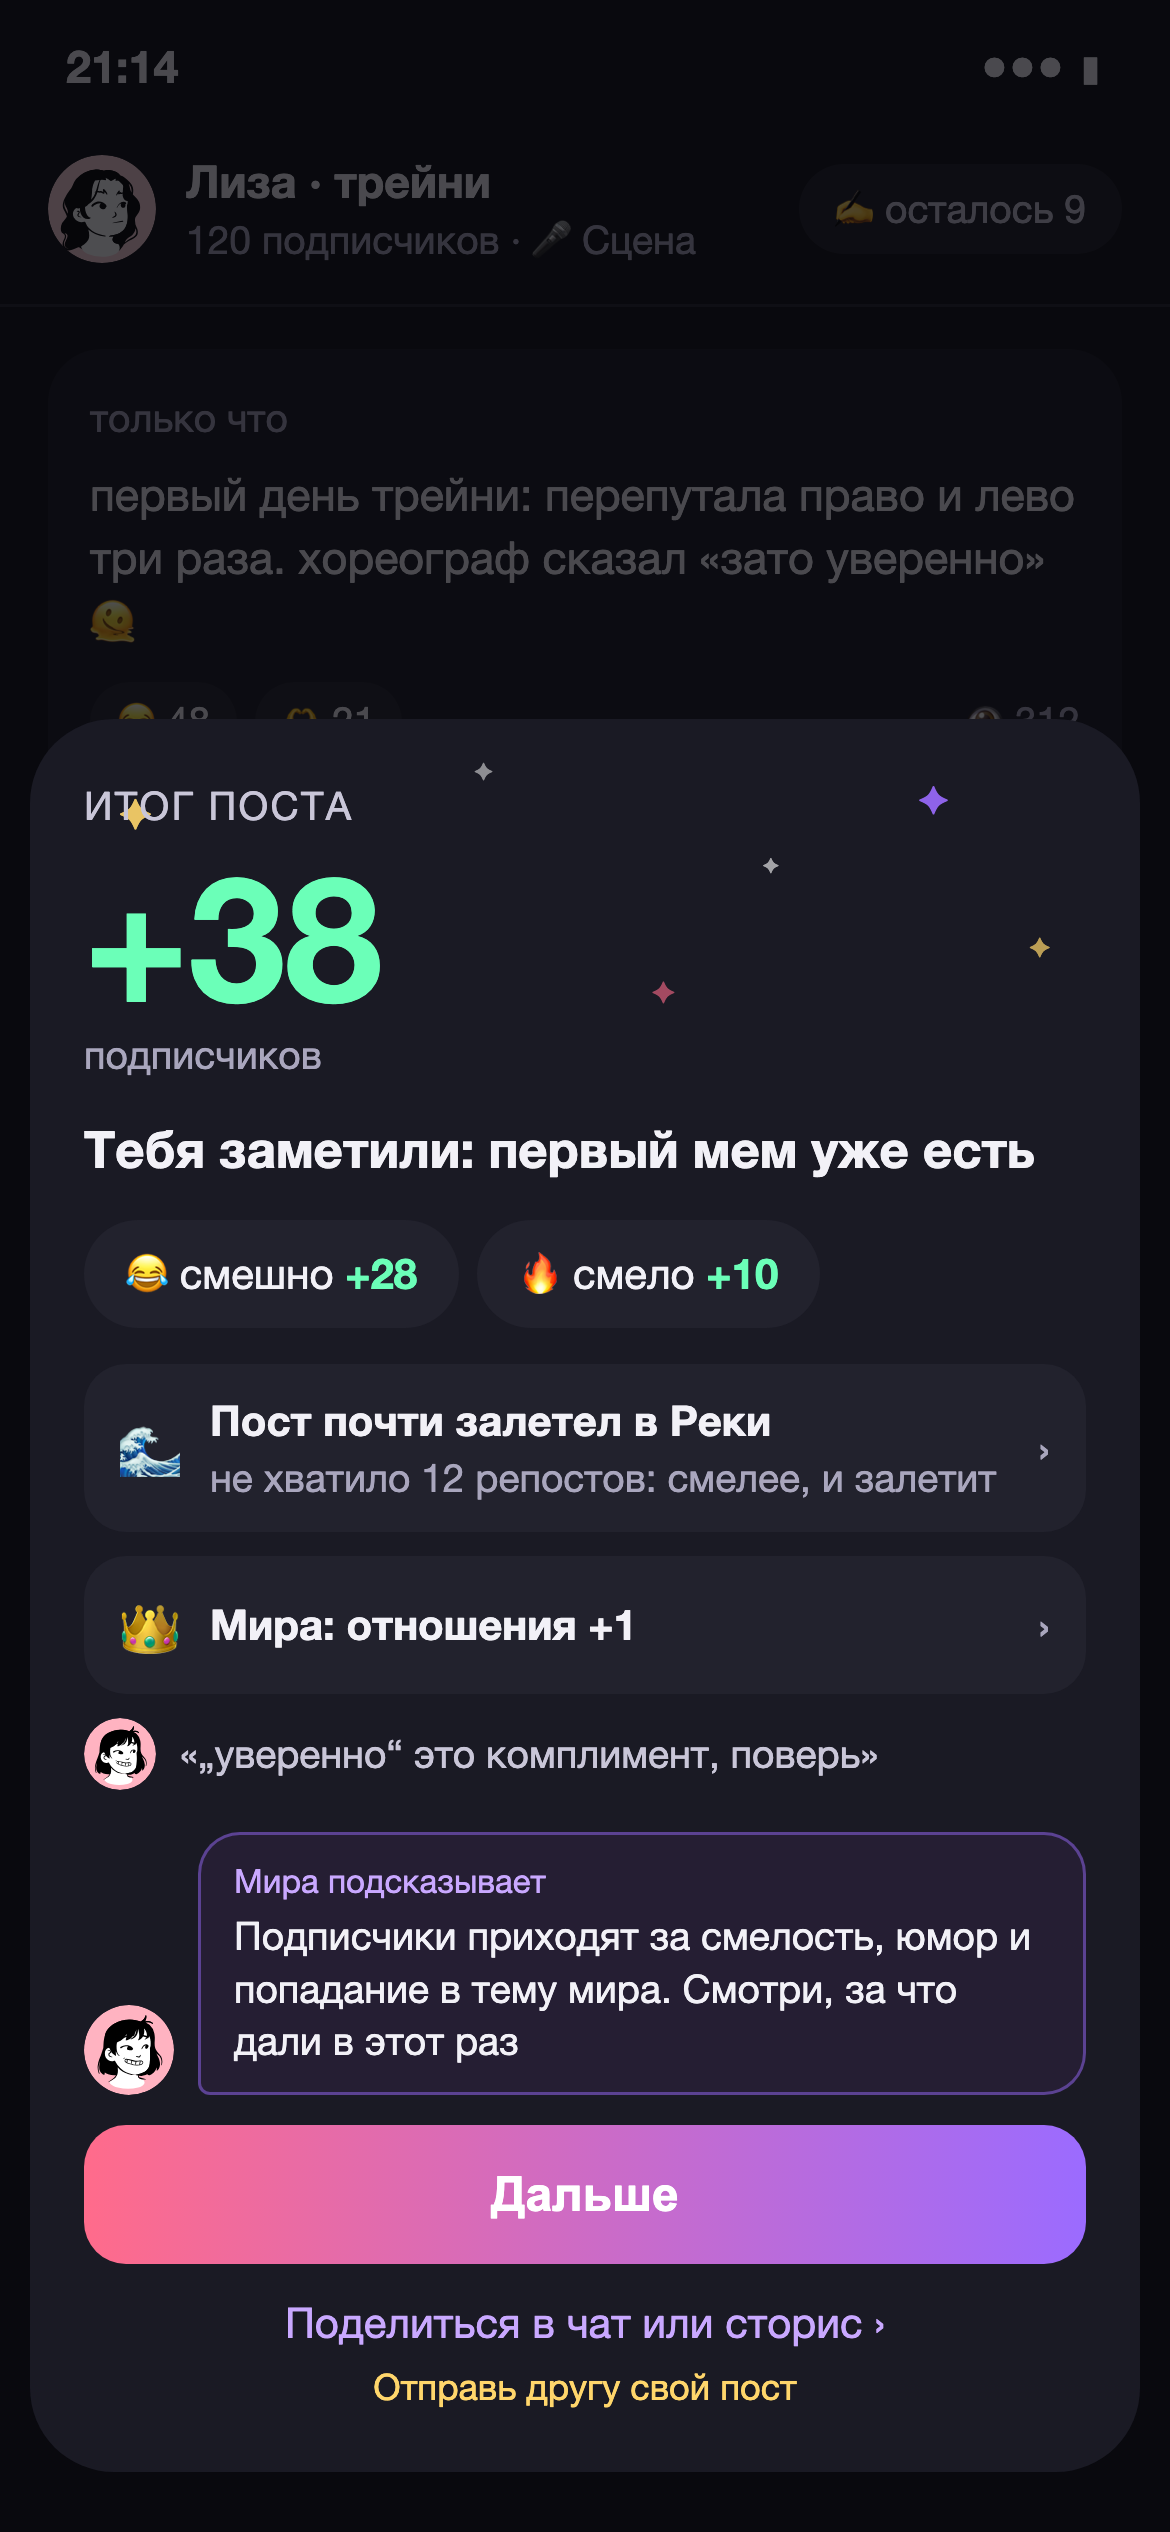
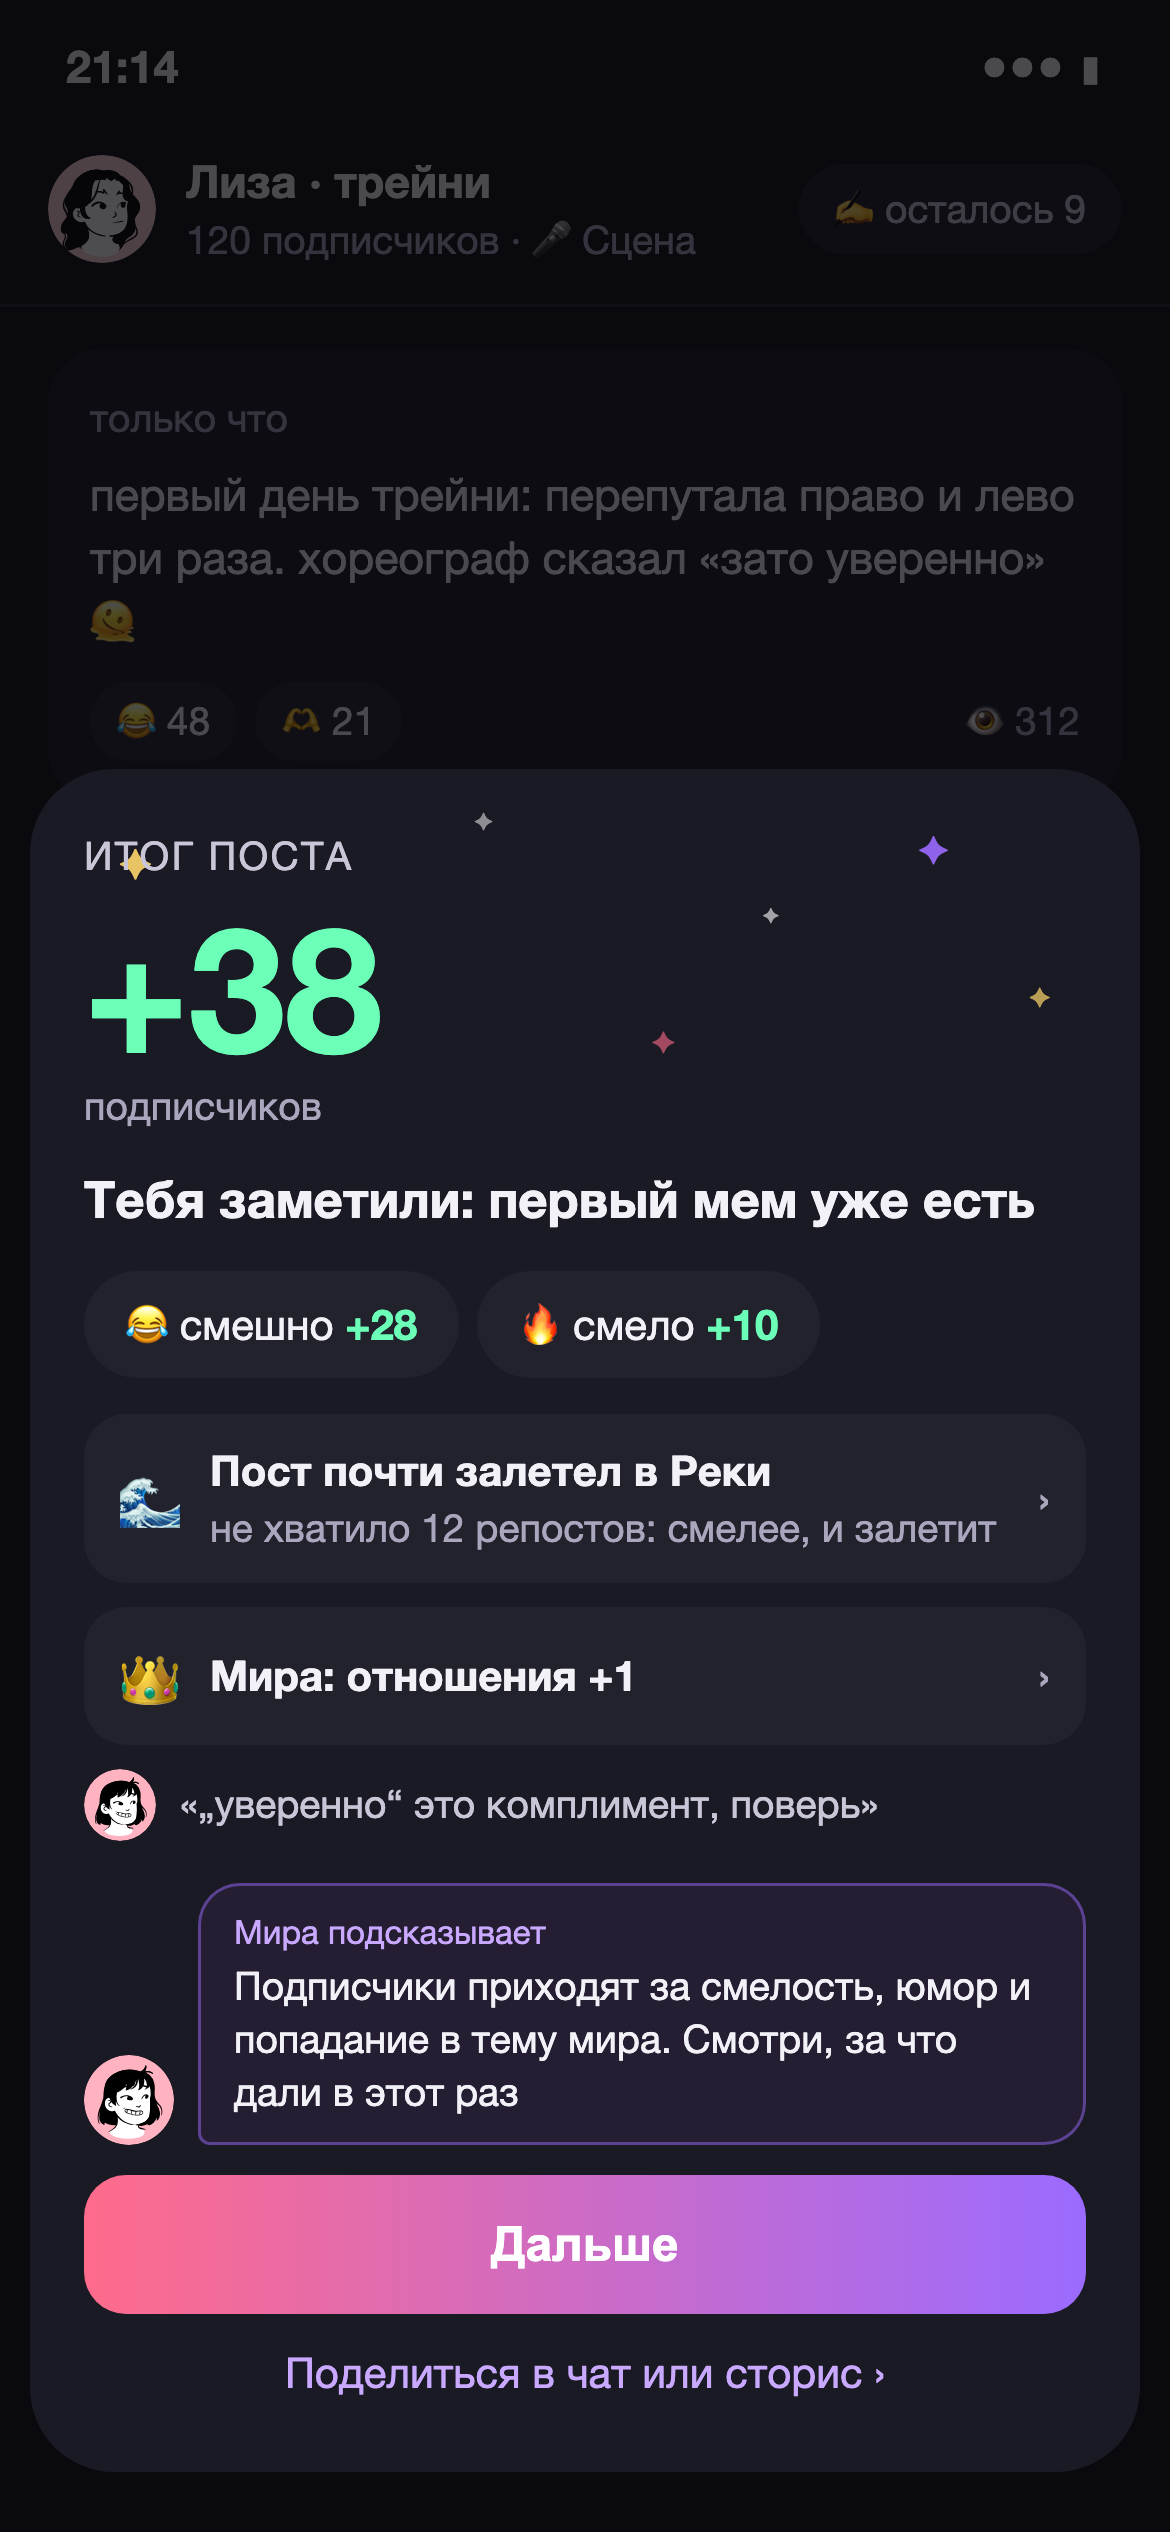
fix(frontend): hide inactive result sharing caption (#92)

Changed region(s): [[0.0615, 0.2808, 0.9538, 0.9672], [0.7385, 0.5616, 0.8308, 0.624], [0.7692, 0.312, 0.8, 0.3432]]

diff --git a/frontend/src/screens/turn.tsx b/frontend/src/screens/turn.tsx
@@ -165,7 +165,7 @@ function ResultCard({ r, post, theme }: { r: PostResult; post: Post; theme: 'nor
           </> : <>
             <Button onClick={() => nav.replace('02-6_thread', { post })}>Дальше</Button>
             {theme === 'normal' && <><button onClick={() => nav.push('02-7_share', { post })} style={{ display: 'block', margin: '10px auto 4px', background: 'none', border: 'none', color: 'var(--lilac)' }}>Поделиться в чат или сторис ›</button>
-              <div className="small" style={{ textAlign: 'center', color: 'var(--gift)' }}>Отправь другу свой пост</div></>}
+              </>}
           </>}
         </div>
       </div>

diff --git a/docs/design/src/journey_v12.py b/docs/design/src/journey_v12.py
@@ -5,4 +5,4 @@ S['01-4b_world_setup'] = P(f'''<div style="padding:20px"><div style="font-size:2
 S['02-3_result'] = S['02-3_result'].replace('+12</b>', '+28</b>').replace('+8</b>', '+10</b>')
 S['02-4_flop'] = S['02-4_flop'].replace('−6</b>', '−7</b>').replace('не про Сцену', 'мимо темы мира')
 
-S['02-3_result'] = S['02-3_result'].replace(why("✍", "своими словами", "×1,3"), '').replace('🎁 друг зайдёт по карточке: +5 постов вам обоим', 'Отправь другу свой пост')
+S['02-3_result'] = S['02-3_result'].replace(why("✍", "своими словами", "×1,3"), '').replace('🎁 друг зайдёт по карточке: +5 постов вам обоим', '')
